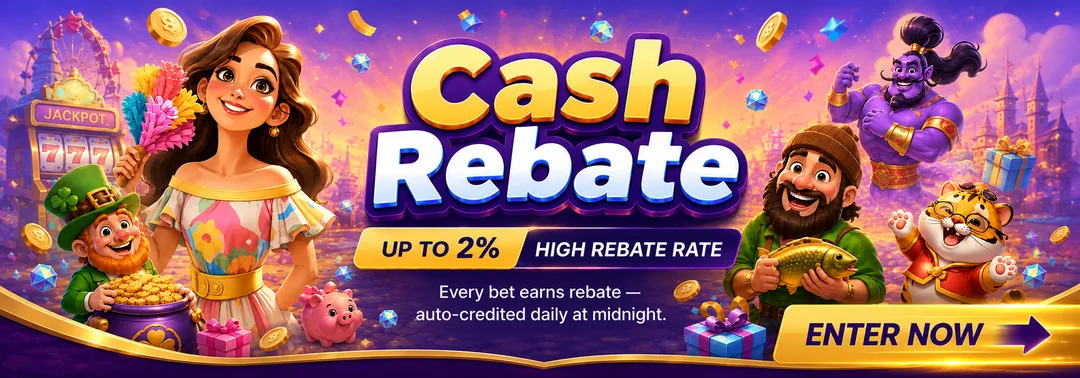
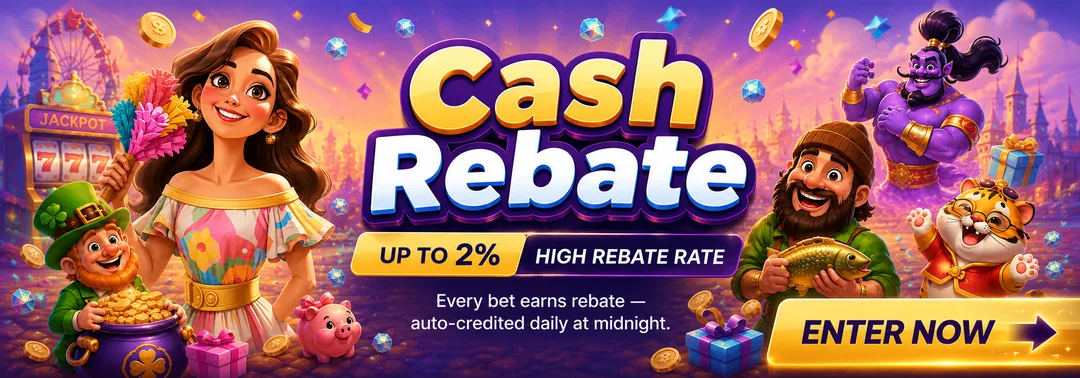
首页微调：补缺分隔改RECOMM+向右箭头、RECENT WINS移到Betting Table上方、rebate横条换cash_rebate2图并加Cash Rebate标题

diff --git a/apps/web-tma/src/views/HomeContent.tsx b/apps/web-tma/src/views/HomeContent.tsx
@@ -537,24 +537,9 @@ export default function HomeContent({ onNavigatePath, onOpenCs, onOpenGame, onOp
 
   return (
     <div className="page-main">
-      {/* Recent Wins marquee */}
-      <div className="mx-4 mt-2 bg-secondary rounded-xl p-3 flex items-center gap-2 overflow-hidden">
-        <div className="flex-shrink-0 flex items-center gap-1.5 text-primary"><Trophy size={13} /><span className="text-xs font-bold uppercase tracking-wide whitespace-nowrap">{t('home.recentWins')}</span></div>
-        <div className="w-px h-4 bg-border flex-shrink-0" />
-        <div className="overflow-hidden flex-1">
-          <div className="flex w-max animate-marquee whitespace-nowrap" style={{ animationDuration: '96s' }}>
-            {[0, 1].map((group) => (
-              <div key={group} className="flex flex-shrink-0 gap-6 pr-6">
-                {marqueeWinners.map((w, i) => <span key={`${group}-${i}`} className="text-xs text-foreground/80 flex-shrink-0"><span className="text-primary font-bold">{w.name}</span> {t('common.won')} <span className="text-emerald-400 font-bold">{w.amount}</span> · <span className="text-muted-foreground">{w.game}</span></span>)}
-              </div>
-            ))}
-          </div>
-        </div>
-      </div>
-
       {/* Banner 轮播（后台装修配置） */}
       {homeBanners.length > 0 && (
-        <div className="px-4 mt-3">
+        <div className="px-4 mt-2">
           <div className="relative h-56 overflow-hidden rounded-2xl">
             <div ref={bannerTrackRef} className="banner-carousel flex h-full snap-x snap-mandatory hide-scrollbar" onScroll={onBannerScroll} onTouchStart={onBannerTouchStart} onTouchMove={onBannerTouchMove} onTouchEnd={onBannerTouchEnd} onTouchCancel={onBannerTouchEnd}>
               {homeBanners.map((banner) => (
@@ -580,8 +565,9 @@ export default function HomeContent({ onNavigatePath, onOpenCs, onOpenGame, onOp
             {recentGames.map((g) => <GameCardV2 key={g.uuid} game={g} onTap={() => void onGameTapAction(g.uuid)} size="sm" />)}
             {recentFillGames.length > 0 && (
               <>
-                <div className="flex-shrink-0 h-[76px] flex items-center rounded-lg bg-gradient-to-b from-amber-400/15 via-amber-400/5 to-amber-400/15 px-1">
-                  <span className="text-[10px] font-black uppercase tracking-[0.2em] text-amber-400" style={{ writingMode: 'vertical-rl' }}>{t('home.recommended')}</span>
+                <div className="flex-shrink-0 h-[76px] flex flex-col items-center justify-center gap-0.5 rounded-lg bg-gradient-to-b from-amber-400/15 via-amber-400/5 to-amber-400/15 px-1">
+                  <span className="text-[10px] font-black uppercase tracking-[0.2em] text-amber-400" style={{ writingMode: 'vertical-rl' }}>RECOMM</span>
+                  <ChevronRight size={12} className="text-amber-400" />
                 </div>
                 {recentFillGames.map((g) => <GameCardV2 key={g.uuid} game={g} onTap={() => void onGameTapAction(g.uuid)} size="sm" />)}
               </>
@@ -597,10 +583,13 @@ export default function HomeContent({ onNavigatePath, onOpenCs, onOpenGame, onOp
       </section>
 
       {/* Cash Rebate 活动横条 → rebate 页 */}
-      <section className="mt-6 px-4">
-        <button type="button" className="block w-full active:scale-[0.98] transition-transform" onClick={() => onNavigatePath('/rebate')}>
-          <img src={cashRebateBannerImg} alt="Cash Rebate" draggable={false} className="w-full rounded-2xl" />
-        </button>
+      <section className="mt-6">
+        {sectionHeader(<Percent size={15} className="text-amber-400" />, t('cashback.pageTitle'))}
+        <div className="px-4">
+          <button type="button" className="block w-full active:scale-[0.98] transition-transform" onClick={() => onNavigatePath('/rebate')}>
+            <img src={cashRebateBannerImg} alt="Cash Rebate" draggable={false} className="w-full rounded-2xl" />
+          </button>
+        </div>
       </section>
 
       {/* 推荐精选：竞品验证权重的次高梯队，大卡 */}
@@ -720,8 +709,23 @@ export default function HomeContent({ onNavigatePath, onOpenCs, onOpenGame, onOp
       )}
 
 
+      {/* Recent Wins marquee */}
+      <div className="mx-4 mt-8 bg-secondary rounded-xl p-3 flex items-center gap-2 overflow-hidden">
+        <div className="flex-shrink-0 flex items-center gap-1.5 text-primary"><Trophy size={13} /><span className="text-xs font-bold uppercase tracking-wide whitespace-nowrap">{t('home.recentWins')}</span></div>
+        <div className="w-px h-4 bg-border flex-shrink-0" />
+        <div className="overflow-hidden flex-1">
+          <div className="flex w-max animate-marquee whitespace-nowrap" style={{ animationDuration: '96s' }}>
+            {[0, 1].map((group) => (
+              <div key={group} className="flex flex-shrink-0 gap-6 pr-6">
+                {marqueeWinners.map((w, i) => <span key={`${group}-${i}`} className="text-xs text-foreground/80 flex-shrink-0"><span className="text-primary font-bold">{w.name}</span> {t('common.won')} <span className="text-emerald-400 font-bold">{w.amount}</span> · <span className="text-muted-foreground">{w.game}</span></span>)}
+              </div>
+            ))}
+          </div>
+        </div>
+      </div>
+
       {/* Betting Table */}
-      <section ref={betSectionRef} className="mt-8 px-4">
+      <section ref={betSectionRef} className="mt-4 px-4">
         <h3 className="text-muted-foreground font-black text-xs font-display tracking-widest mb-3">
           {t('home.bettingTable')}
         </h3>
